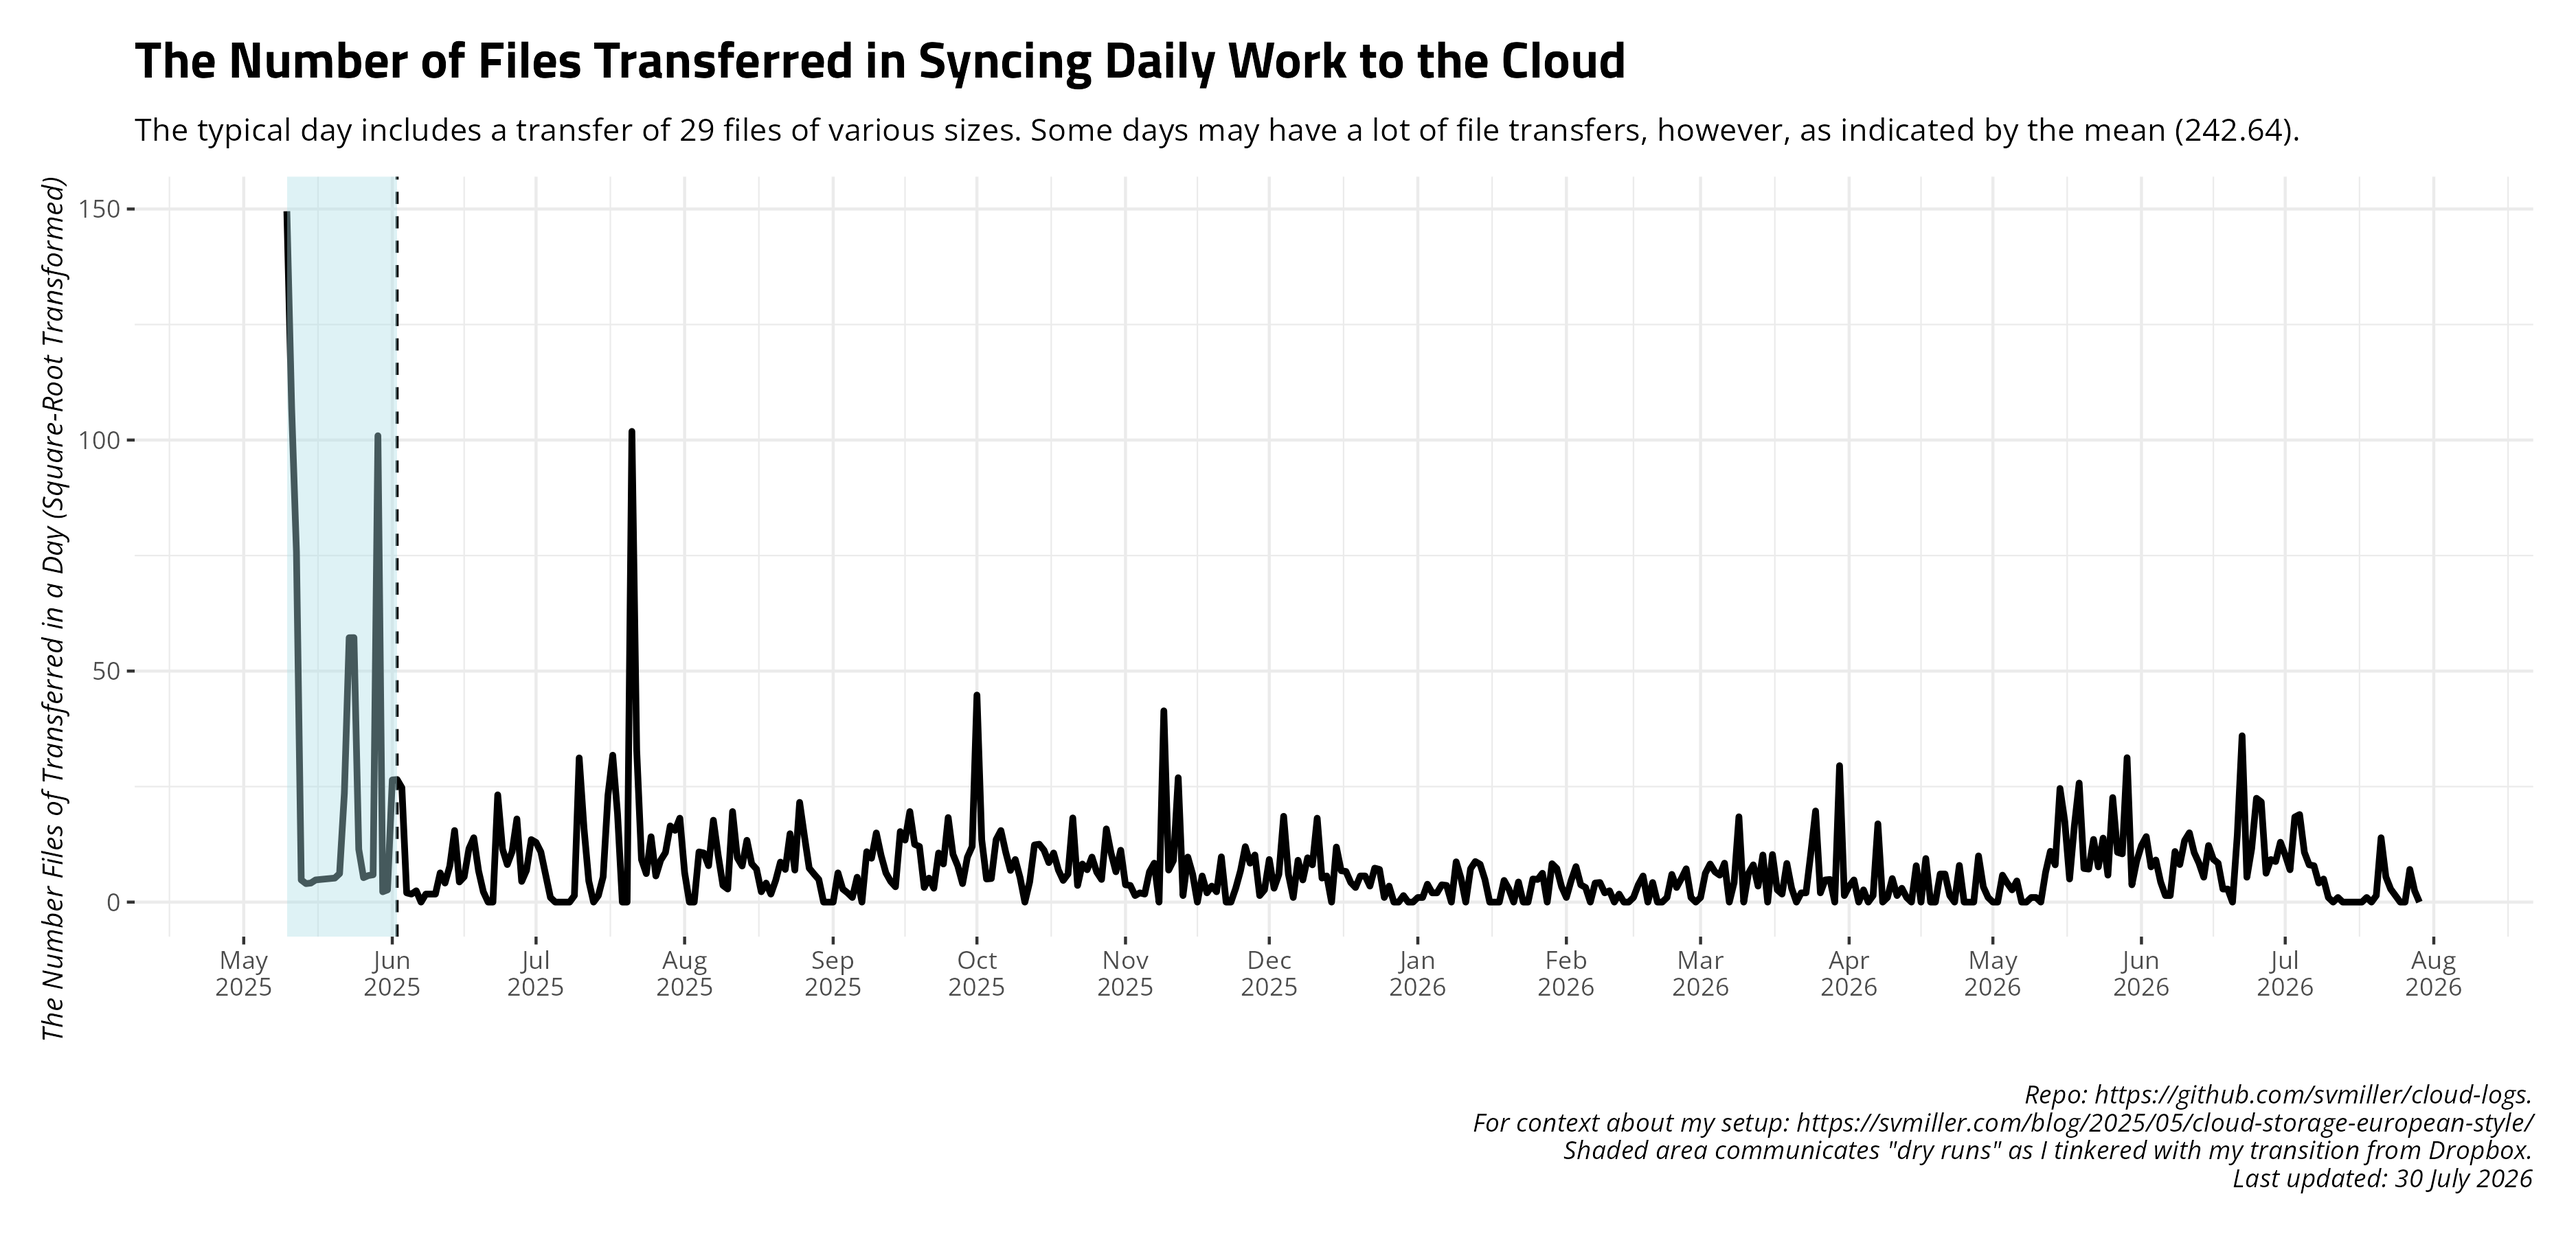
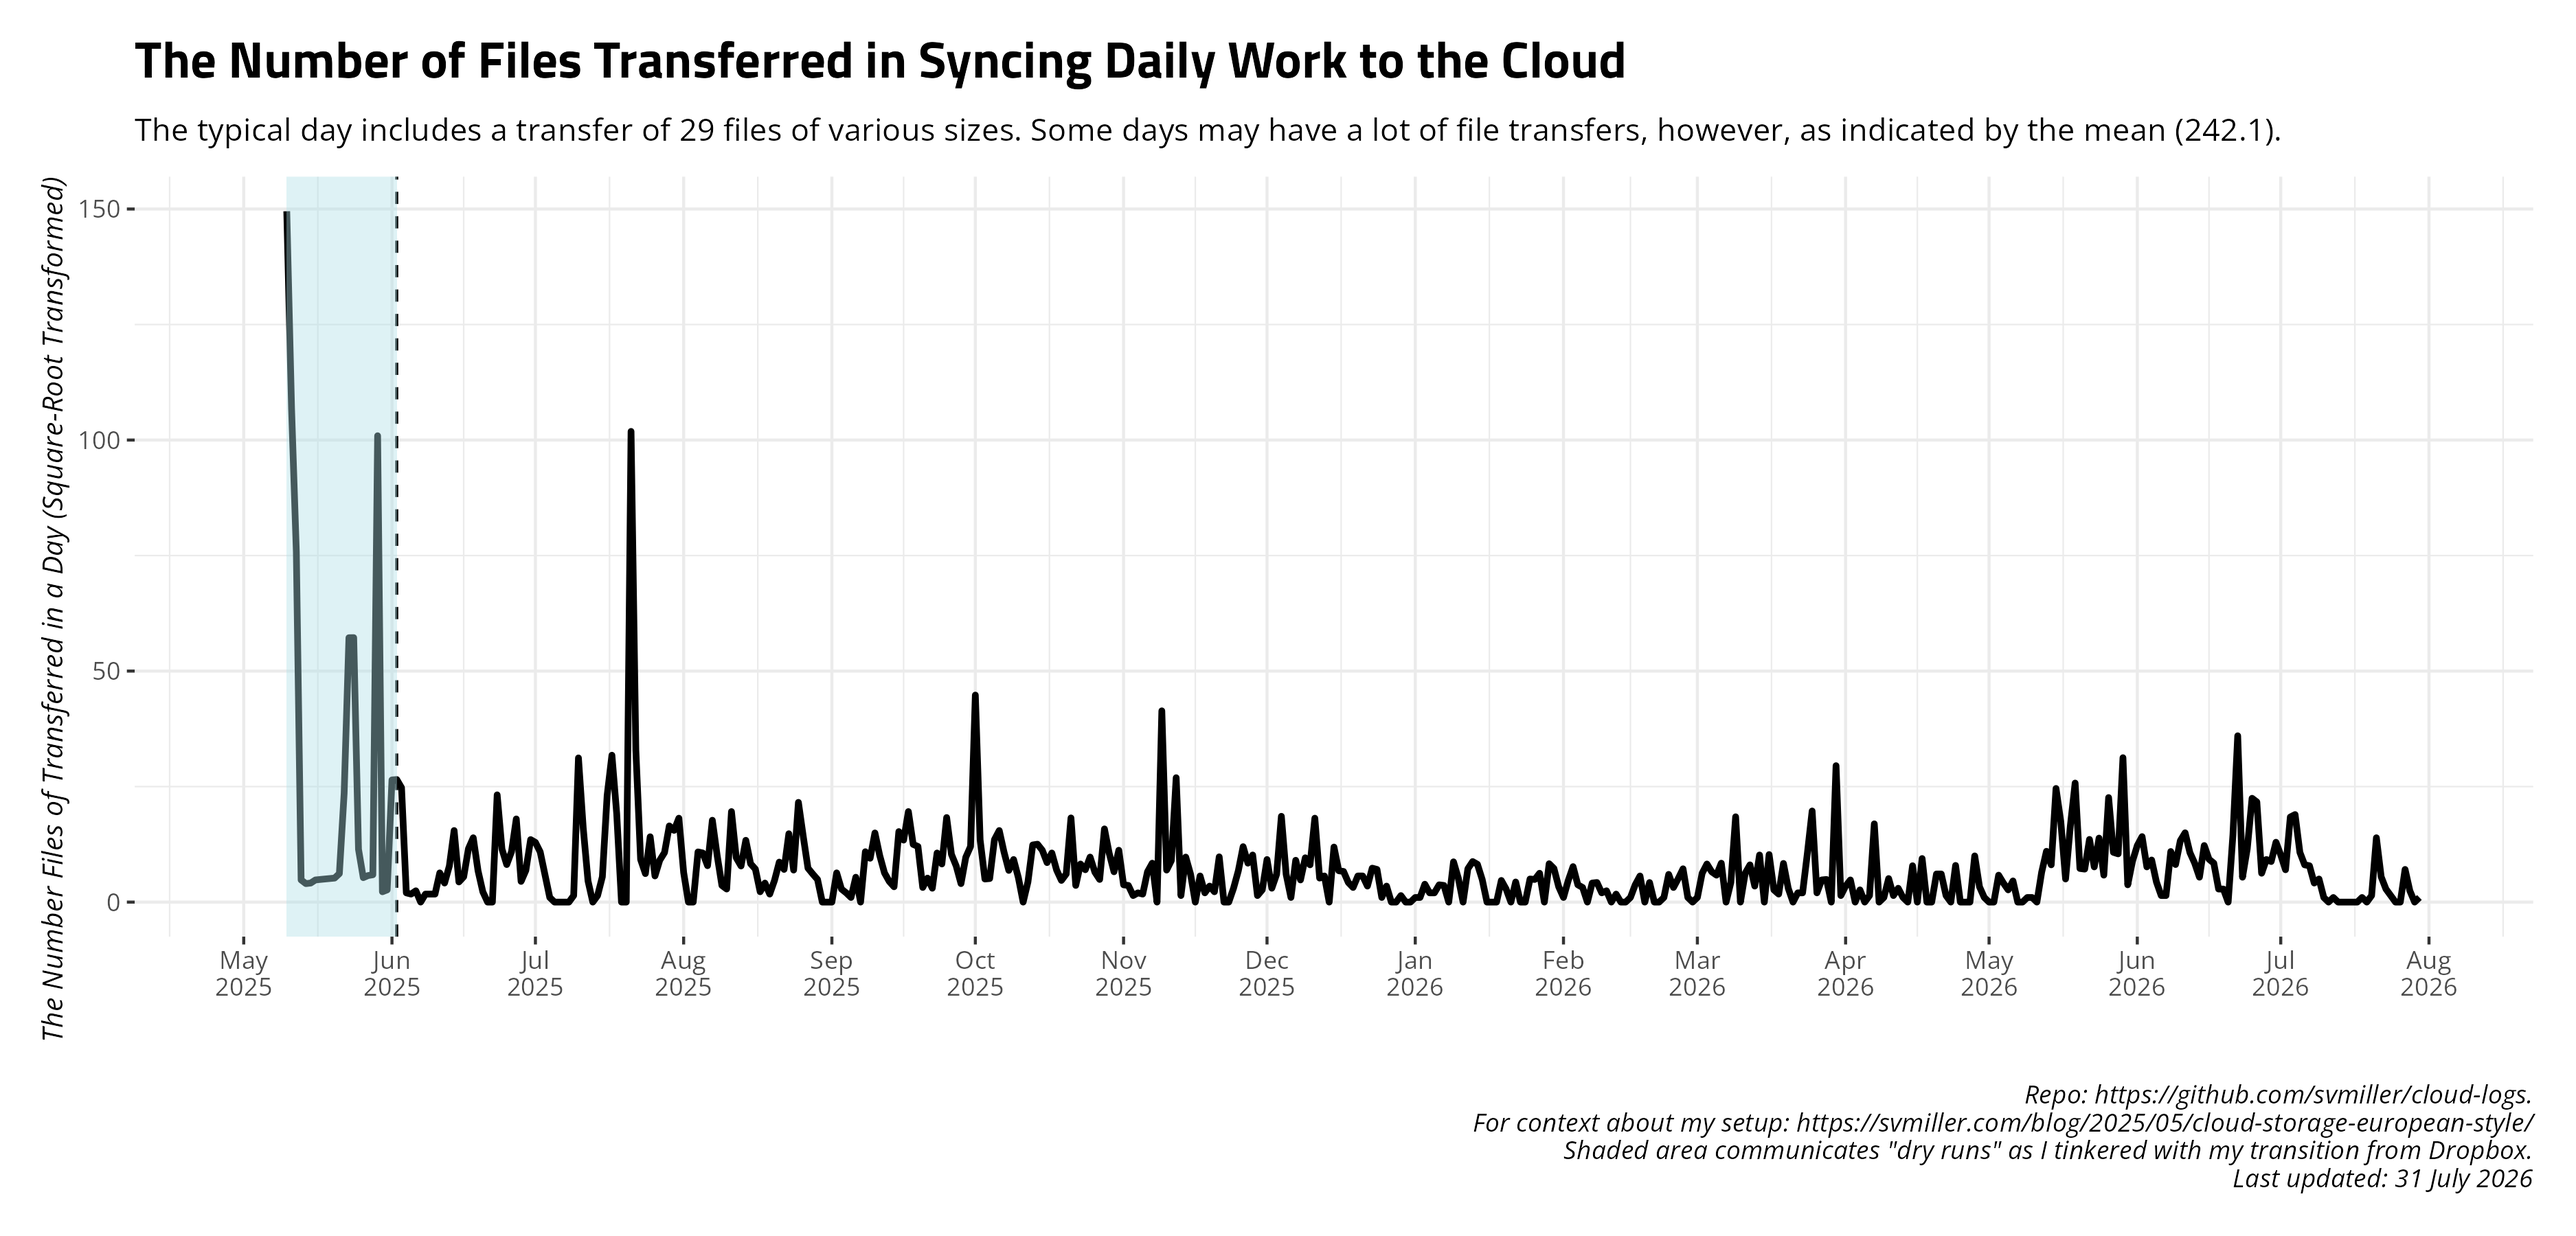
Date: 2026-07-31 09:00:32. Hi mom!

diff --git a/README.md b/README.md
@@ -27,17 +27,17 @@ and uploads to Github.
     #> # A tibble: 14 × 4
     #>    date       ftransfer stransfer    elapsed 
     #>    <date>         <dbl> <chr>        <chr>   
-    #>  1 2026-07-16         0 <NA>         10m32.8s
-    #>  2 2026-07-17         0 <NA>         22m18.0s
-    #>  3 2026-07-18         1 926.506 KiB  5m44.6s 
-    #>  4 2026-07-19         0 <NA>         18m26.1s
-    #>  5 2026-07-20         2 59.563 KiB   5m46.9s 
-    #>  6 2026-07-21       194 766.281 KiB  4m40.3s 
-    #>  7 2026-07-22        30 85.817 KiB   4m41.8s 
-    #>  8 2026-07-23         8 9.150 MiB    9m39.1s 
-    #>  9 2026-07-24         2 65.241 KiB   4m46.2s 
-    #> 10 2026-07-25         0 <NA>         4m36.5s 
-    #> 11 2026-07-26         0 <NA>         21m4.7s 
-    #> 12 2026-07-27        50 17.862 MiB   4m40.5s 
-    #> 13 2026-07-28         6 1023.222 KiB 4m44.8s 
-    #> 14 2026-07-29         0 <NA>         39m39.7s
+    #>  1 2026-07-17         0 <NA>         22m18.0s
+    #>  2 2026-07-18         1 926.506 KiB  5m44.6s 
+    #>  3 2026-07-19         0 <NA>         18m26.1s
+    #>  4 2026-07-20         2 59.563 KiB   5m46.9s 
+    #>  5 2026-07-21       194 766.281 KiB  4m40.3s 
+    #>  6 2026-07-22        30 85.817 KiB   4m41.8s 
+    #>  7 2026-07-23         8 9.150 MiB    9m39.1s 
+    #>  8 2026-07-24         2 65.241 KiB   4m46.2s 
+    #>  9 2026-07-25         0 <NA>         4m36.5s 
+    #> 10 2026-07-26         0 <NA>         21m4.7s 
+    #> 11 2026-07-27        50 17.862 MiB   4m40.5s 
+    #> 12 2026-07-28         6 1023.222 KiB 4m44.8s 
+    #> 13 2026-07-29         0 <NA>         39m39.7s
+    #> 14 2026-07-30         1 60.194 KiB   4m45.8s
